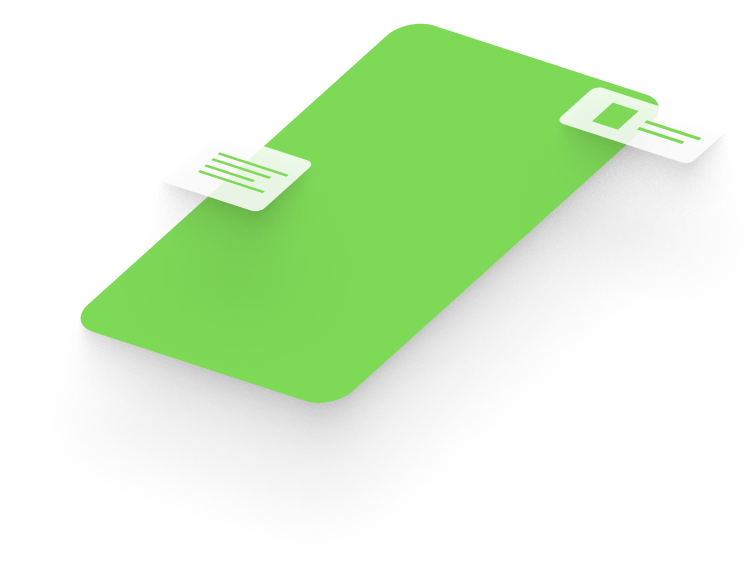
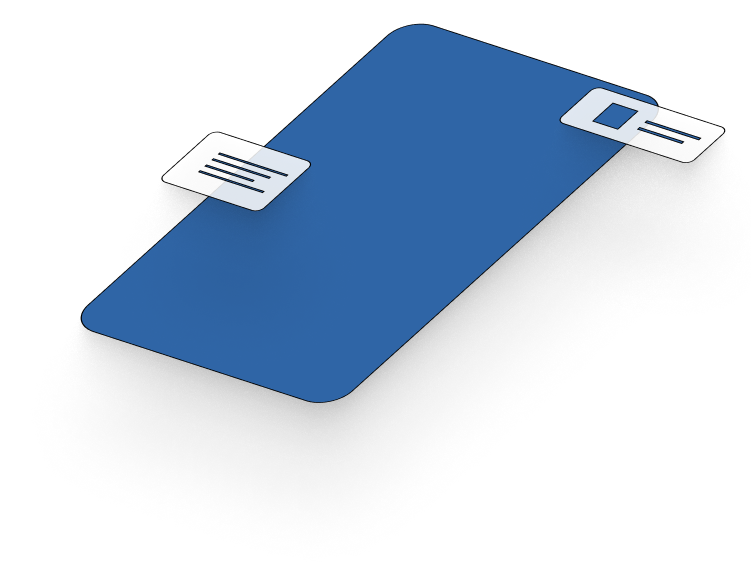
color fix

Changed region(s): [[0.0919, 0.0309, 0.98, 0.7101], [0.2144, 0.2779, 0.245, 0.3087]]

diff --git a/src/components/header.vue b/src/components/header.vue
@@ -2,7 +2,9 @@
   <div class="header" :style="{'position': !fixed?'fixed':''}">
     <div class="header__content">
       <router-link tag="div" to="/" class="header__logo cursor-pointer ">
-        <img src="../assets/img/header/session.png" alt="">
+        <div class="header__img">
+          <img src="../assets/img/header/session.png" alt="">
+        </div>
       </router-link>
 
       <div class="header__nav">
@@ -104,7 +106,14 @@
       display: flex;
       justify-content: space-between;
       align-items: center;
+      
+    }
 
+    .header__img{
+      img{
+      max-width: 80%;
+
+      }
     }
 
     .header__nav{

diff --git a/src/components/Description.vue b/src/components/Description.vue
@@ -56,7 +56,7 @@
 
 <style lang="scss" scoped>
 .description{
-    background: rgba(222, 255, 207, 0.47);
+    background: #A6CAF555;
     padding: 237px 0px 127px 0px;
     p{
         margin-bottom: 0px;

diff --git a/src/components/Team.vue b/src/components/Team.vue
@@ -63,7 +63,7 @@
 
 <style lang="scss" scoped>
 .team{
-    background: rgba(222, 255, 207, 0.47);
+    background: #A6CAF555;
     padding: 57px 0px 0px 0px;
     p{
         margin-bottom: 0px;

diff --git a/src/components/Functional.vue b/src/components/Functional.vue
@@ -129,7 +129,7 @@
     }
 }
 .functional__button {
-    background: #BDF8A4;
+    background: #A6CAF555;
     border-radius: 26px;
     max-width: 229px;
     height: 52px;

diff --git a/src/components/Footer.vue b/src/components/Footer.vue
@@ -17,7 +17,7 @@
 
 <style lang="scss" scoped>
 .footer {
-    background: rgba(222, 255, 207, 0.47);
+    background: #A6CAF555;
     p{
       margin-bottom: 0px;
     }

diff --git a/src/views/Main.vue b/src/views/Main.vue
@@ -6,10 +6,6 @@
     <Team />
     <Connect />
     <Footer />
-    
-    <div class="mt-4 wrapper">
-      
-    </div>
   </div>
 </template>
 
